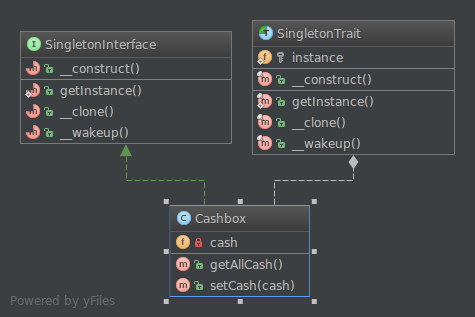
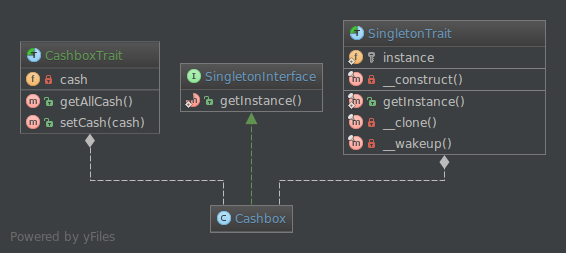
Singleton fix

diff --git a/patterns/Creational/Singleton/Cashbox.php b/patterns/Creational/Singleton/Cashbox.php
@@ -8,32 +8,5 @@ namespace DesignPatterns\Creational\Singleton;
  */
 class Cashbox implements SingletonInterface
 {
-    /**
-     * @var array
-     */
-    private $cash = [];
-
-    use SingletonTrait;
-
-    /**
-     * Return sum for all cash operation on cashbox
-     *
-     * @return float
-     */
-    public function getAllCash(): float
-    {
-        return array_sum($this->cash);
-    }
-
-    /**
-     * Set new cash operation
-     *
-     * @param float $cash
-     *
-     * @return void
-     */
-    public function setCash(float $cash)
-    {
-        $this->cash[uniqid()] = $cash;
-    }
+    use SingletonTrait, CashboxTrait;
 }

diff --git a/patterns/Creational/Singleton/CashboxTrait.php b/patterns/Creational/Singleton/CashboxTrait.php
@@ -1,0 +1,33 @@
+<?php
+
+namespace DesignPatterns\Creational\Singleton;
+
+trait CashboxTrait
+{
+    /**
+     * @var array
+     */
+    private $cash = [];
+
+    /**
+     * Return sum for all cash operation on cashbox
+     *
+     * @return float
+     */
+    public function getAllCash(): float
+    {
+        return array_sum($this->cash);
+    }
+
+    /**
+     * Set new cash operation
+     *
+     * @param float $cash
+     *
+     * @return void
+     */
+    public function setCash(float $cash)
+    {
+        $this->cash[uniqid()] = $cash;
+    }
+}

diff --git a/patterns/Creational/Singleton/SingletonTrait.php b/patterns/Creational/Singleton/SingletonTrait.php
@@ -25,15 +25,15 @@ trait SingletonTrait
         return static::$instance;
     }
 
-    final public function __construct()
+    private function __construct()
     {
     }
 
-    final public function __clone()
+    private function __clone()
     {
     }
 
-    final public function __wakeup()
+    private function __wakeup()
     {
     }
 }

diff --git a/patterns/Creational/Singleton/SingletonInterface.php b/patterns/Creational/Singleton/SingletonInterface.php
@@ -12,10 +12,4 @@ interface SingletonInterface
      * @return SingletonInterface
      */
     public static function getInstance(): SingletonInterface;
-
-    public function __construct();
-
-    public function __clone();
-
-    public function __wakeup();
 }
